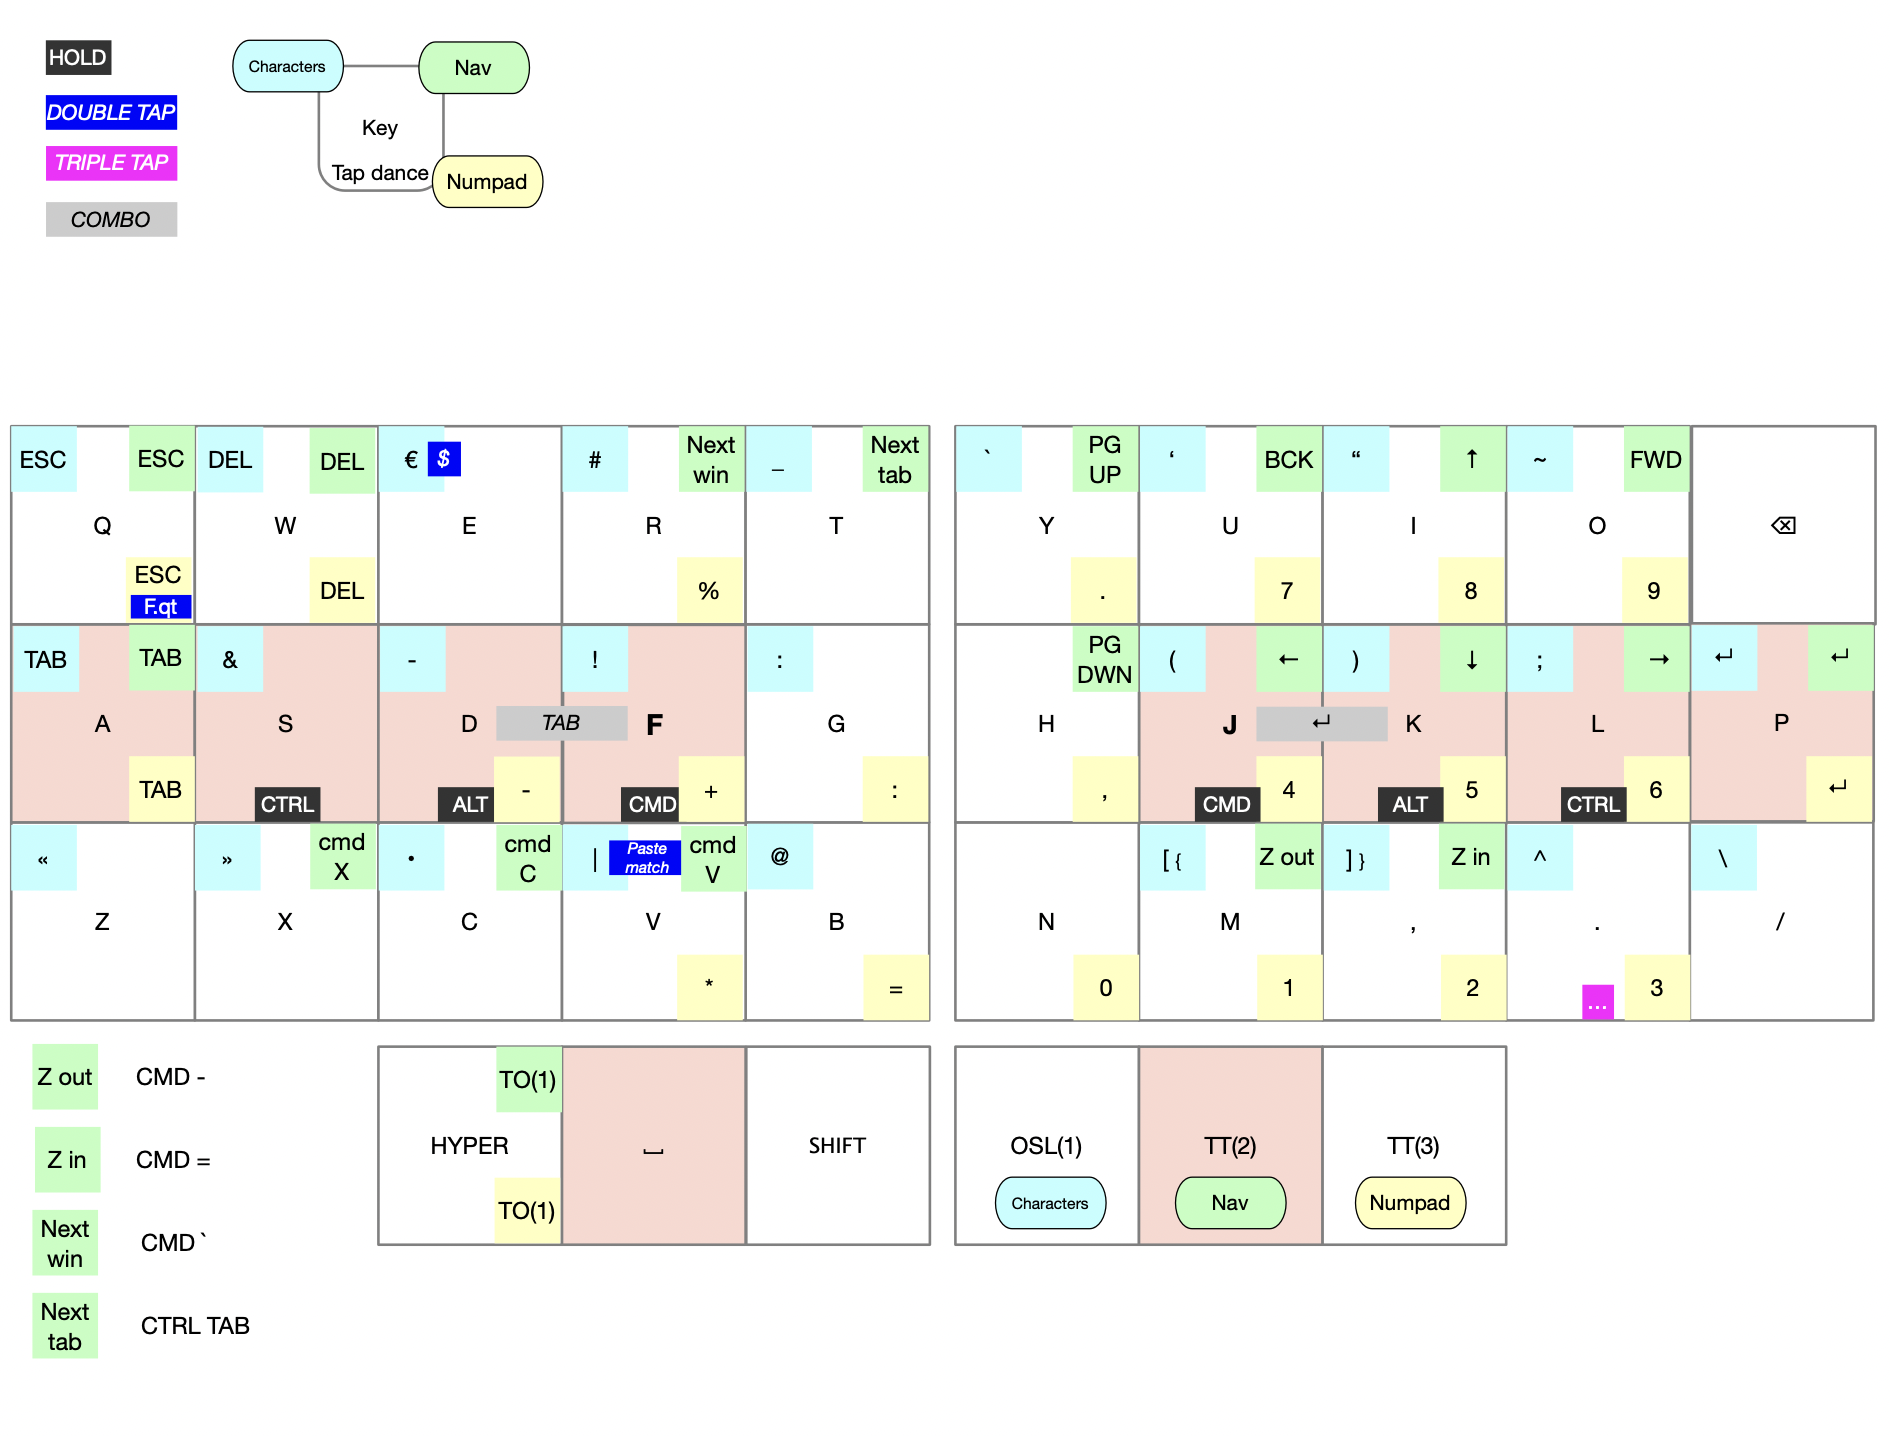
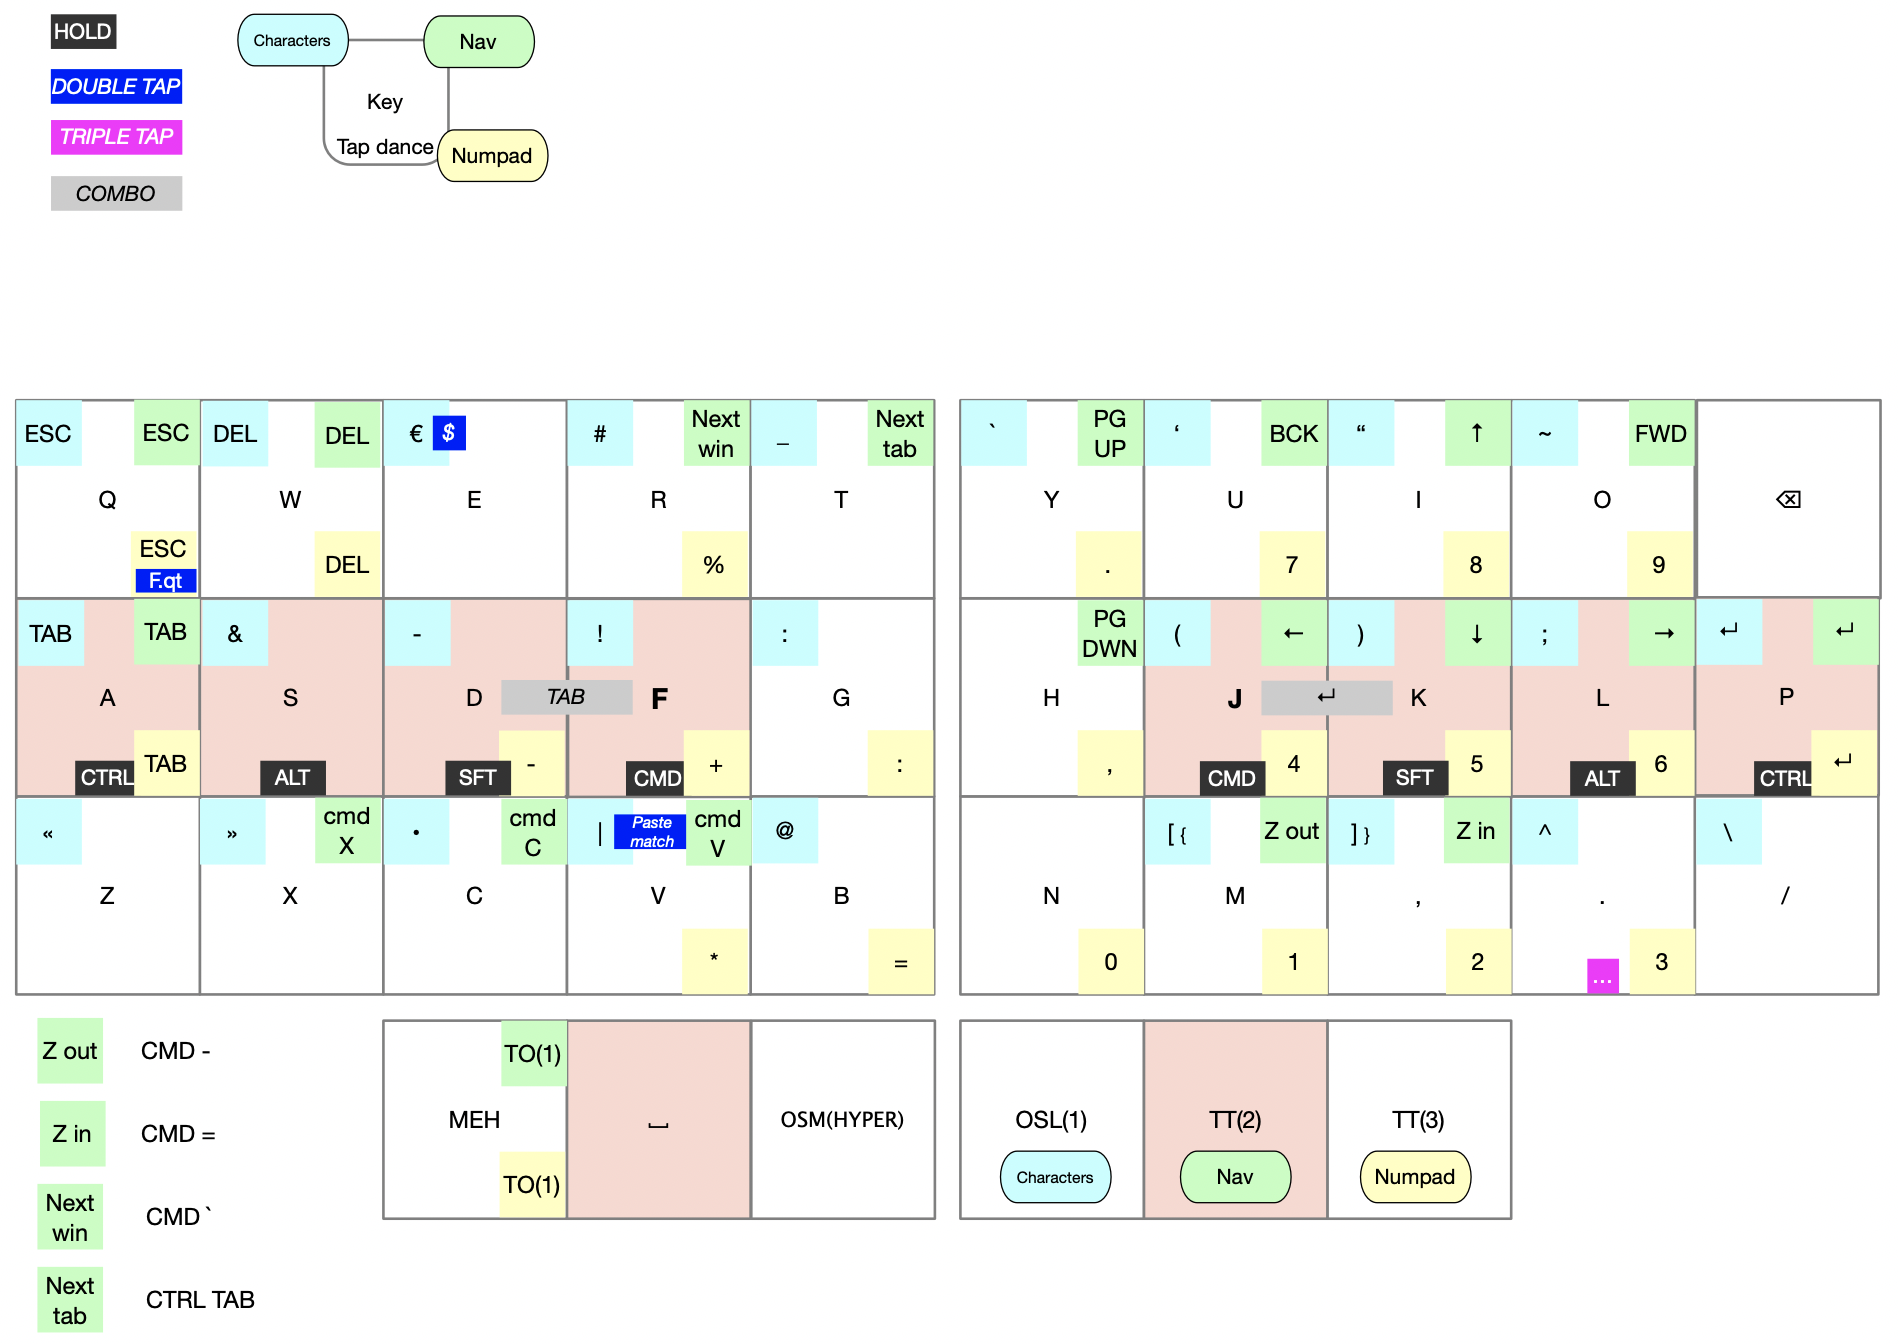
Moved SHIFT from thumb to middle finger

diff --git a/tapdance.c b/tapdance.c
@@ -5,9 +5,9 @@ enum td_keycodes {
     PI_PASTE, // `SHFT-OPT-CMD v` when held, | when pressed
     ESC_FRC, // `Force quit` when held, ESC when pressed
     CMD_EXL,
-    CTRL_AMP,
+    ALT_AMP,
     CMD_LPRN,
-    ALT_RPRN
+    SFT_RPRN
 };
 
 typedef enum {
@@ -51,14 +51,14 @@ void escfrc_reset(qk_tap_dance_state_t *state, void *user_data);
 void cmdexl_finished(qk_tap_dance_state_t *state, void *user_data);
 void cmdexl_reset(qk_tap_dance_state_t *state, void *user_data);
 
-void ctrlamp_finished(qk_tap_dance_state_t *state, void *user_data);
-void ctrlamp_reset(qk_tap_dance_state_t *state, void *user_data);
+void altamp_finished(qk_tap_dance_state_t *state, void *user_data);
+void altamp_reset(qk_tap_dance_state_t *state, void *user_data);
 
 void cmdlprn_finished(qk_tap_dance_state_t *state, void *user_data);
 void cmdlprn_reset(qk_tap_dance_state_t *state, void *user_data);
 
-void altrprn_finished(qk_tap_dance_state_t *state, void *user_data);
-void altrprn_reset(qk_tap_dance_state_t *state, void *user_data);
+void sftrprn_finished(qk_tap_dance_state_t *state, void *user_data);
+void sftrprn_reset(qk_tap_dance_state_t *state, void *user_data);
 
 /* Return an integer that corresponds to what kind of tap dance should be executed.
  *
@@ -266,7 +266,7 @@ void cmdexl_reset(qk_tap_dance_state_t *state, void *user_data) {
 
 // CTRL EXL
 
-void ctrlamp_finished(qk_tap_dance_state_t *state, void *user_data) {
+void altamp_finished(qk_tap_dance_state_t *state, void *user_data) {
     td_state = cur_dance(state);
     switch (td_state) {
         case TD_SINGLE_TAP:
@@ -280,7 +280,7 @@ void ctrlamp_finished(qk_tap_dance_state_t *state, void *user_data) {
     }
 }
 
-void ctrlamp_reset(qk_tap_dance_state_t *state, void *user_data) {
+void altamp_reset(qk_tap_dance_state_t *state, void *user_data) {
     switch (td_state) {
         case TD_SINGLE_TAP:
             unregister_code16(KC_AMPR);
@@ -324,7 +324,7 @@ void cmdlprn_reset(qk_tap_dance_state_t *state, void *user_data) {
 
 // ALT RPRN
 
-void altrprn_finished(qk_tap_dance_state_t *state, void *user_data) {
+void sftrprn_finished(qk_tap_dance_state_t *state, void *user_data) {
     td_state = cur_dance(state);
     switch (td_state) {
         case TD_SINGLE_TAP:
@@ -338,7 +338,7 @@ void altrprn_finished(qk_tap_dance_state_t *state, void *user_data) {
     }
 }
 
-void altrprn_reset(qk_tap_dance_state_t *state, void *user_data) {
+void sftrprn_reset(qk_tap_dance_state_t *state, void *user_data) {
     switch (td_state) {
         case TD_SINGLE_TAP:
             unregister_code16(KC_RPRN);
@@ -358,7 +358,7 @@ qk_tap_dance_action_t tap_dance_actions[] = {
     [PI_PASTE] = ACTION_TAP_DANCE_FN_ADVANCED(NULL, pipaste_finished, pipaste_reset),
     [ESC_FRC] = ACTION_TAP_DANCE_FN_ADVANCED(NULL, escfrc_finished, escfrc_reset),
     [CMD_EXL] = ACTION_TAP_DANCE_FN_ADVANCED(NULL, cmdexl_finished, cmdexl_reset),
-    [CTRL_AMP] = ACTION_TAP_DANCE_FN_ADVANCED(NULL, ctrlamp_finished, ctrlamp_reset),
+    [ALT_AMP] = ACTION_TAP_DANCE_FN_ADVANCED(NULL, altamp_finished, altamp_reset),
     [CMD_LPRN] = ACTION_TAP_DANCE_FN_ADVANCED(NULL, cmdlprn_finished, cmdlprn_reset),
-    [ALT_RPRN] = ACTION_TAP_DANCE_FN_ADVANCED(NULL, altrprn_finished, altrprn_reset),
+    [SFT_RPRN] = ACTION_TAP_DANCE_FN_ADVANCED(NULL, sftrprn_finished, sftrprn_reset),
 };

diff --git a/definekeys.c b/definekeys.c
@@ -16,17 +16,17 @@
 
 // Mid row
 
-#define KR_0_2_1 KC_A
-#define KR_0_2_2 LCTL_T(KC_S)
-#define KR_0_2_3 LALT_T(KC_D)
+#define KR_0_2_1 LCTL_T(KC_A)
+#define KR_0_2_2 LALT_T(KC_S)
+#define KR_0_2_3 LSFT_T(KC_D)
 #define KR_0_2_4 LGUI_T(KC_F)
 #define KR_0_2_5 KC_G
 //
 #define KR_0_2_6 KC_H
 #define KR_0_2_7 RGUI_T(KC_J)
-#define KR_0_2_8 RALT_T(KC_K)
-#define KR_0_2_9 RCTL_T(KC_L)
-#define KR_0_2_10 KC_P
+#define KR_0_2_8 RSFT_T(KC_K)
+#define KR_0_2_9 RALT_T(KC_L)
+#define KR_0_2_10 RCTL_T(KC_P)
 
 // Bottom row
 
@@ -44,9 +44,9 @@
 
 // Thumb cluster
 
-#define KR_0_4_1 KC_HYPR
+#define KR_0_4_1 KC_MEH
 #define KR_0_4_2 KC_SPACE
-#define KR_0_4_3 KC_LSFT
+#define KR_0_4_3 OSM(MOD_HYPR)
 #define KR_0_4_4 OSL(1)
 #define KR_0_4_5 TT(2)
 #define KR_0_4_6 TT(3)
@@ -69,17 +69,17 @@
 
 // Mid row
 
-#define KR_1_2_1 KC_TAB
-#define KR_1_2_2 TD(CTRL_AMP)
-#define KR_1_2_3 LALT_T(KC_MINUS)
+#define KR_1_2_1 LCTL_T(KC_TAB)
+#define KR_1_2_2 TD(ALT_AMP)
+#define KR_1_2_3 LSFT_T(KC_MINUS)
 #define KR_1_2_4 TD(CMD_EXL)
 #define KR_1_2_5 KC_COLN
 //
 #define KR_1_2_6 KC_NO
 #define KR_1_2_7 TD(CMD_LPRN)
-#define KR_1_2_8 TD(ALT_RPRN)
-#define KR_1_2_9 RCTL_T(KC_SCLN)
-#define KR_1_2_10 KC_ENTER
+#define KR_1_2_8 TD(SFT_RPRN)
+#define KR_1_2_9 RALT_T(KC_SCLN)
+#define KR_1_2_10 RCTL_T(KC_ENTER)
 
 
 #define KR_1_3_1 LALT(KC_BSLS)
@@ -95,7 +95,7 @@
 #define KR_1_3_10 KC_BSLASH
 
 
-#define KR_1_4_1 KC_HYPR
+#define KR_1_4_1 KC_MEH
 #define KR_1_4_2 KC_TRNS
 #define KR_1_4_3 KC_TRNS
 //
@@ -120,9 +120,9 @@
 #define KR_2_1_10 KC_BSPC
 
 
-#define KR_2_2_1 KC_TAB
-#define KR_2_2_2 KC_LCTL
-#define KR_2_2_3 KC_LOPT
+#define KR_2_2_1 LCTL_T(KC_TAB)
+#define KR_2_2_2 KC_LALT
+#define KR_2_2_3 KC_LSFT
 #define KR_2_2_4 KC_LCMD
 #define KR_2_2_5 KC_NO
 //
@@ -171,9 +171,9 @@
 #define KR_3_1_10 KC_BSPC
 
 
-#define KR_3_2_1 KC_TAB
-#define KR_3_2_2 KC_LCTL
-#define KR_3_2_3 LALT_T(KC_PMNS)
+#define KR_3_2_1 LCTL_T(KC_TAB)
+#define KR_3_2_2 KC_LALT
+#define KR_3_2_3 LSFT_T(KC_PMNS)
 #define KR_3_2_4 LGUI_T(KC_PPLS)
 #define KR_3_2_5 KC_COLN
 //

diff --git a/combos.c b/combos.c
@@ -8,8 +8,8 @@ enum combos {
 
 uint16_t COMBO_LEN = COMBO_LENGTH;
 
-const uint16_t PROGMEM df_combo[]   = {LALT_T(KC_D), LGUI_T(KC_F), COMBO_END};
-const uint16_t PROGMEM jk_combo[]   = {RGUI_T(KC_J), RALT_T(KC_K), COMBO_END};
+const uint16_t PROGMEM df_combo[]   = {LSFT_T(KC_D), LGUI_T(KC_F), COMBO_END};
+const uint16_t PROGMEM jk_combo[]   = {RGUI_T(KC_J), RSFT_T(KC_K), COMBO_END};
 
 combo_t key_combos[] = {
     // D+F = TAB

diff --git a/README.md b/README.md
@@ -6,10 +6,10 @@ With this [QMK](https://beta.docs.qmk.fm) keymap I try to accomplish a couple of
 - Only use 36 keys
 - Minimal number of layers for usability
 - All layers available on right thumb cluster
-- Mods on every layer ([home row mods](https://precondition.github.io/home-row-mods) except for SHIFT. Layers 2 and 3 left hand only)
+- Mods on every layer ([home row mods](https://precondition.github.io/home-row-mods), layers 2 and 3 left hand only)
 - Easy sync between my [Microdox](https://boardsource.xyz/store/5f2e7e4a2902de7151494f92) and [Moonlander](https://www.zsa.io/moonlander/) ([my Moonlander keymap](https://github.com/reinier/moonlander-mk1)) by adding an extra mapping in `definekeys.c`
 - Minimize pinky use on both sides for ergonomic reasons
-- I can always press the HYPER key to make sure I'm on layer 1
+- I can always press the MEH key to make sure I'm on layer 1
 
 The keymap:
 
@@ -22,6 +22,5 @@ The keyboard:
 ## TODO's
 - Position characters on layer 1 more ergonomically based on most used (' and # for example)
 - Test if only 4 thumb keys would work. Sometimes I'm a bit lost on where my thumbs are.
-    - Move CTRL and ALT to the sides to make room for SHIFT on D and K 
     - Going to layer 3 will be a two step process
 - Add a mouse layer
